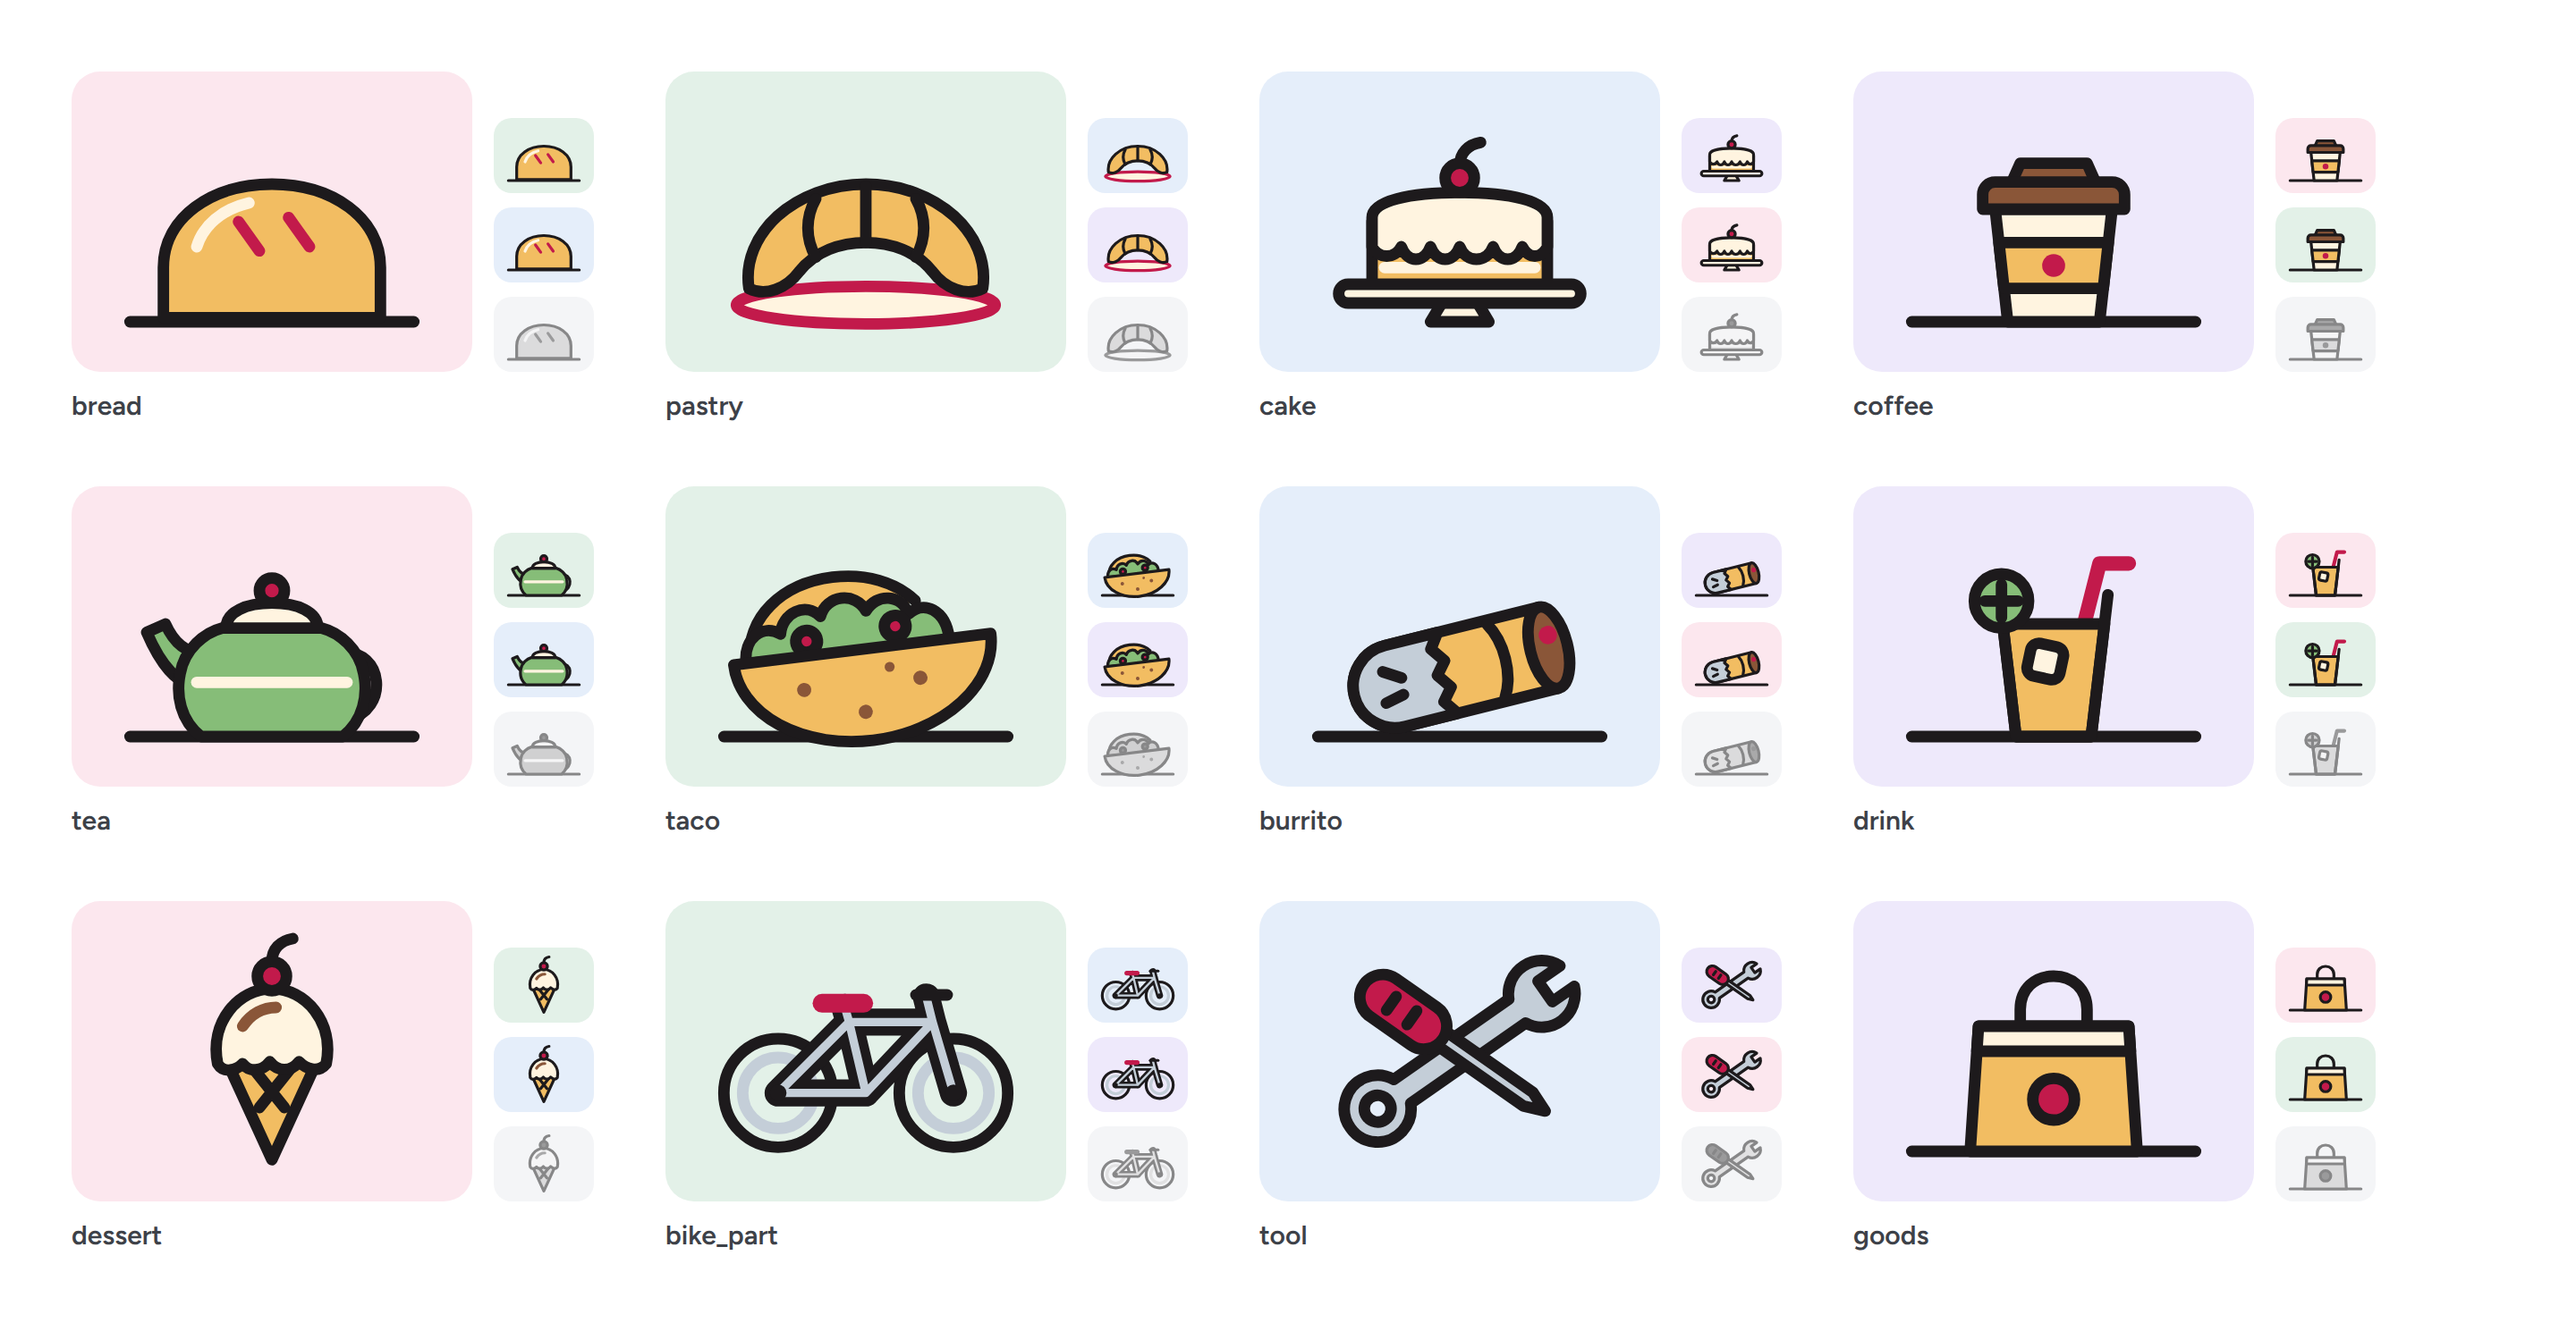
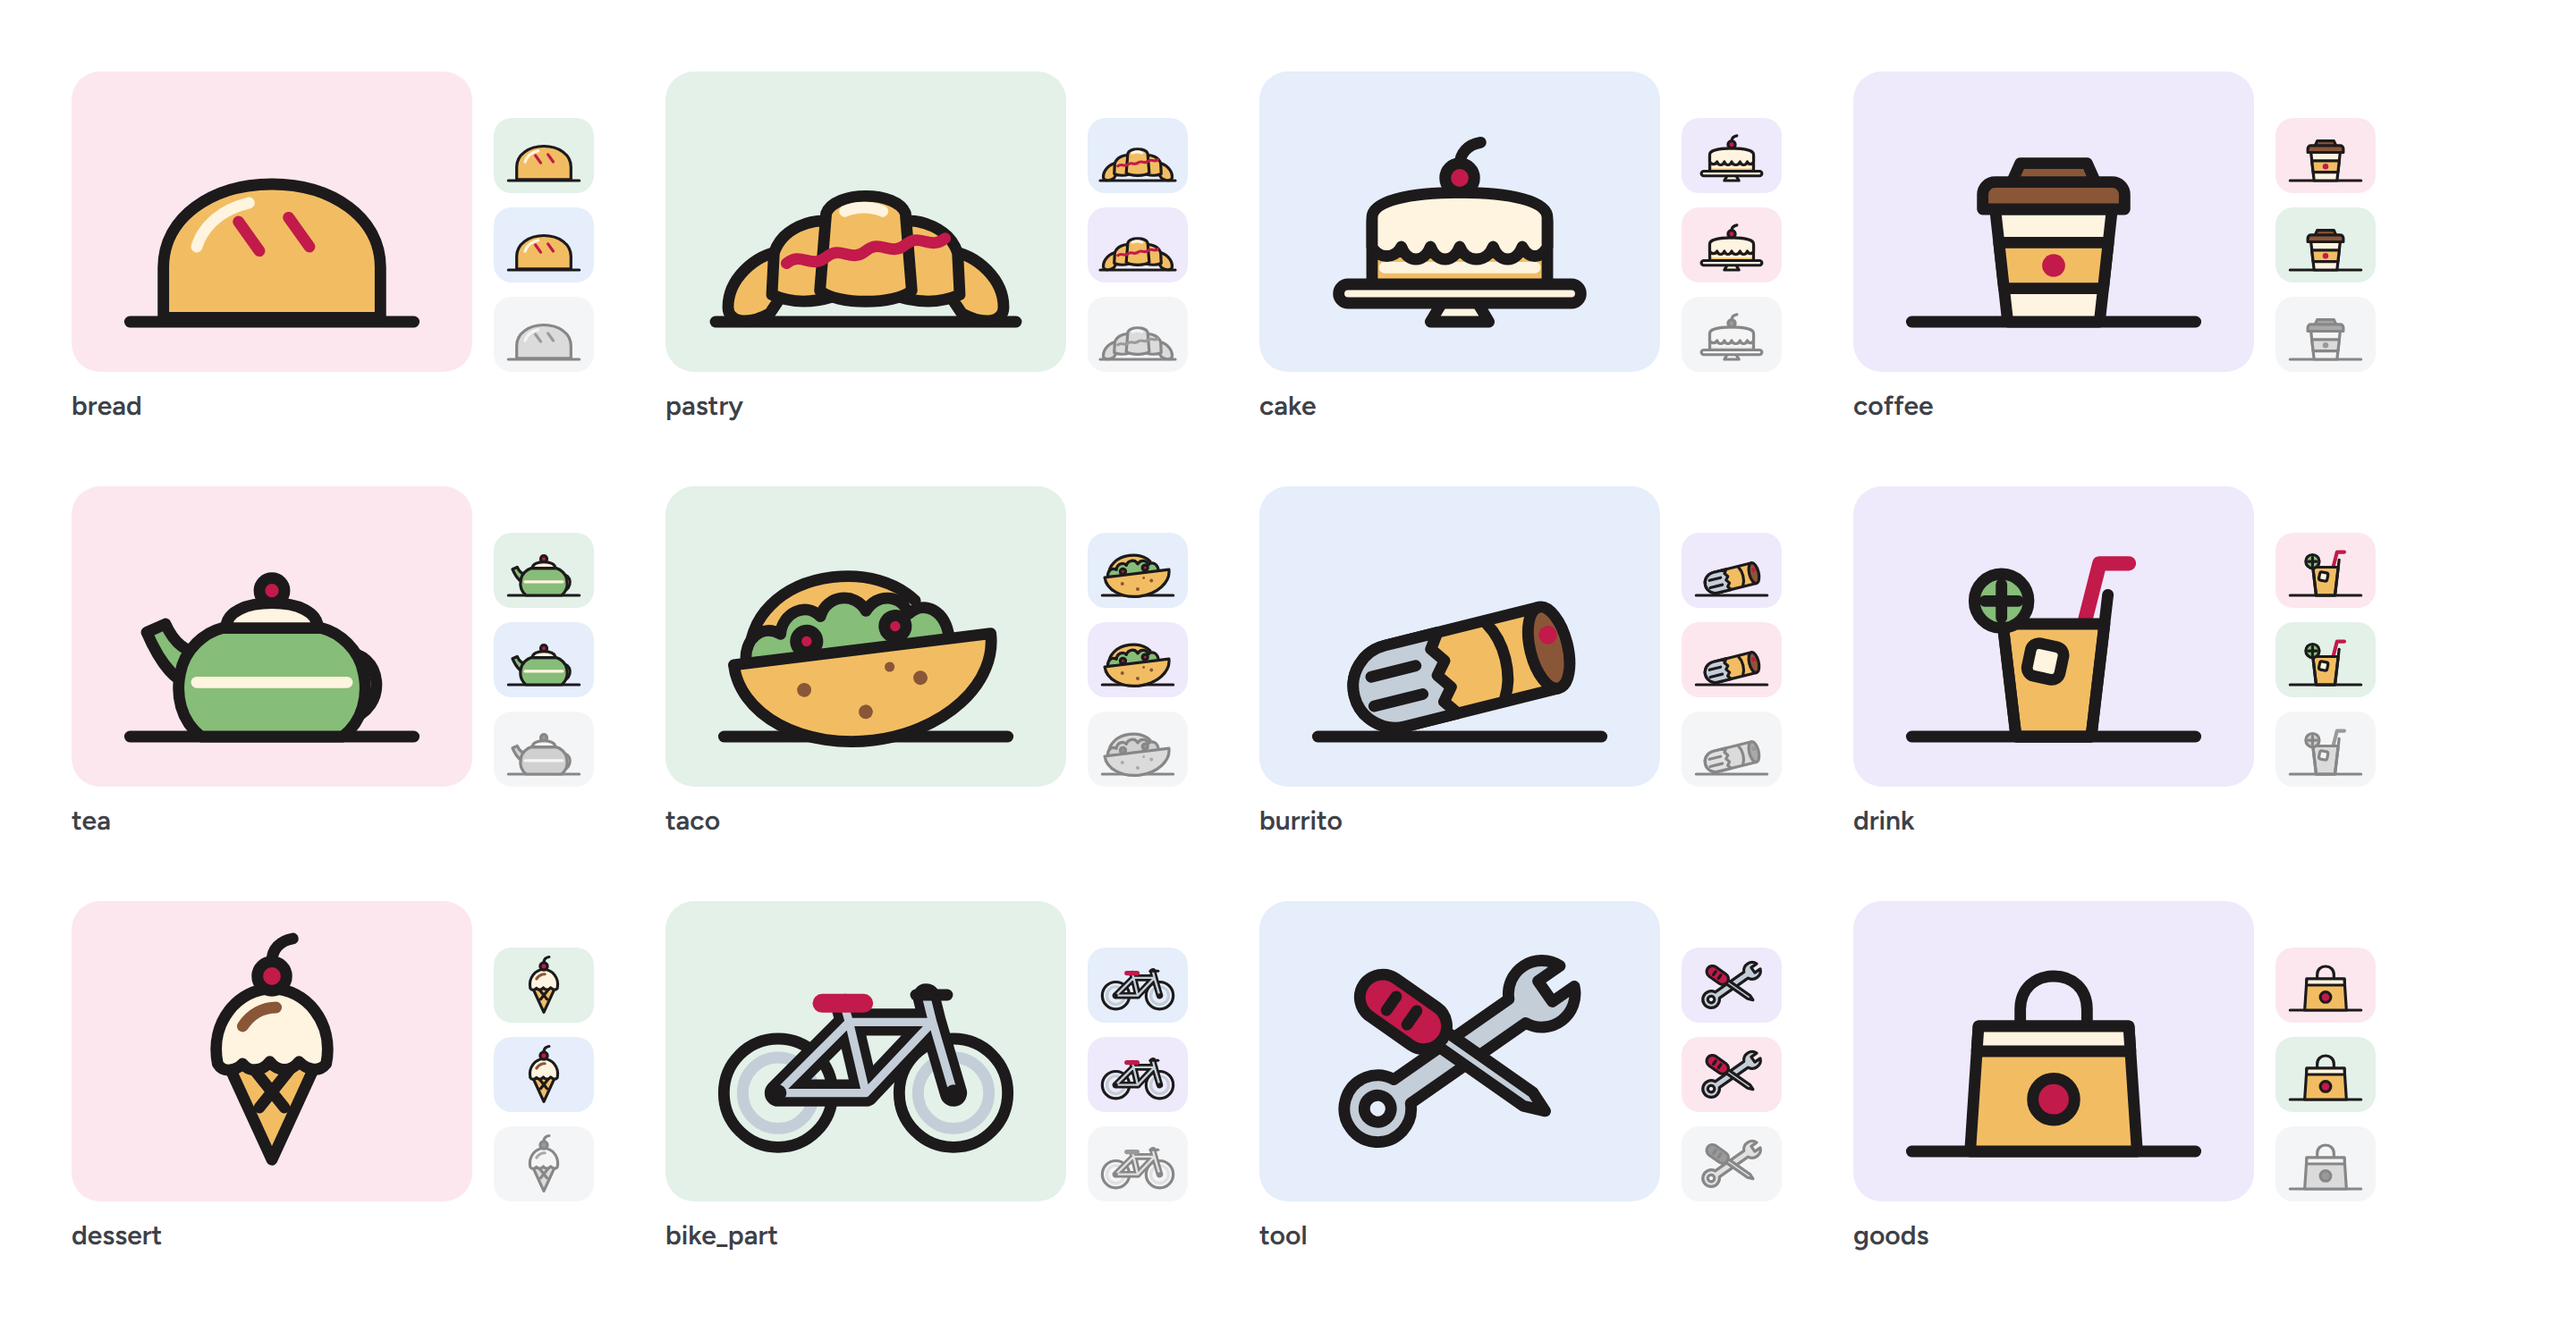
Illustrations: a clear segmented croissant on the shelf line (no plate), straight crimp lines on the burrito foil; contact sheet re-rendered

diff --git a/docs/DESIGN.md b/docs/DESIGN.md
@@ -119,8 +119,8 @@ Item photos are 4:3 crops with the `photo` radius. Thumbnails use `thumb` (10 px
 
 ### The illustrations (`illustrations/ItemIllustration.tsx`, `public/illustrations.svg`)
 
-- **Twelve drawings**, one per item category (`src/lib/domain/category.ts`): bread (a scored loaf), pastry (a croissant on a plate), cake (a frosted cake on a stand), coffee (a takeaway cup), tea (a teapot), taco, burrito (half in foil), drink (a glass with a straw and lime), dessert (a cone), bike_part (a bicycle), tool (a wrench crossed with a screwdriver) and goods (a shopping bag). Contact sheet: `docs/judge/evidence/illustrations.png`.
-- **Style:** rounded geometric shapes, one ink outline (2.75 units on a 96 x 72 viewBox, round caps and joins), two or three flat fills from the illustration palette (`--ill-*`), and exactly one pomegranate detail (the loaf's scores like the logo's, the plate's rim, the cherry, the cup's sticker, the teapot's knob, the tomatoes, the salsa, the straw, the saddle, the screwdriver's handle, the bag's sticker). Most sit on a short ink shelf line. They read at 44 px and at 224 px.
+- **Twelve drawings**, one per item category (`src/lib/domain/category.ts`): bread (a scored loaf), pastry (a segmented croissant with curved horns), cake (a frosted cake on a stand), coffee (a takeaway cup), tea (a teapot), taco, burrito (half in foil, straight crimp lines), drink (a glass with a straw and lime), dessert (a cone), bike_part (a bicycle), tool (a wrench crossed with a screwdriver) and goods (a shopping bag). Contact sheet: `docs/judge/evidence/illustrations.png`.
+- **Style:** rounded geometric shapes, one ink outline (2.75 units on a 96 x 72 viewBox, round caps and joins), two or three flat fills from the illustration palette (`--ill-*`), and exactly one pomegranate detail (the loaf's scores like the logo's, the croissant's drizzle, the cherry, the cup's sticker, the teapot's knob, the tomatoes, the salsa, the straw, the saddle, the screwdriver's handle, the bag's sticker). Most sit on a short ink shelf line. They read at 44 px and at 224 px.
 - **Category:** Claude picks one per item when it reads the menu (`category` in the extraction schema). Rows without one (older shops, a hand-added item) fall back to `guessCategory`, keyword rules on the name, then the description, then the section; an unmatched item is `tool` in a services shop, else `goods`.
 - **Cost:** each drawing is a `<symbol>` in one static sheet; a tile is `<svg><use href="/illustrations.svg#bread"/></svg>`, so the paths are downloaded once and cached and never repeated in a page's HTML. The comment in that file must never contain a double hyphen (invalid XML blanks every drawing).
 - **Never a product image for agents:** `image_url` in `list_products` and `image` in the JSON-LD stay the seller's real photos; an item without one has no image there.
